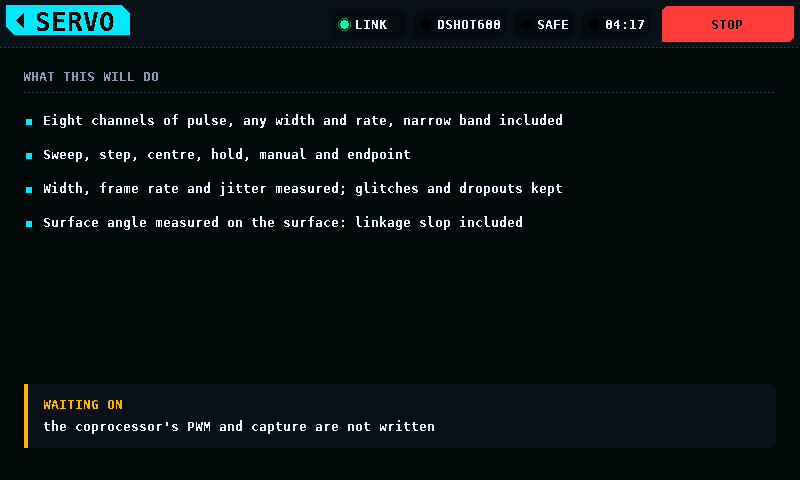
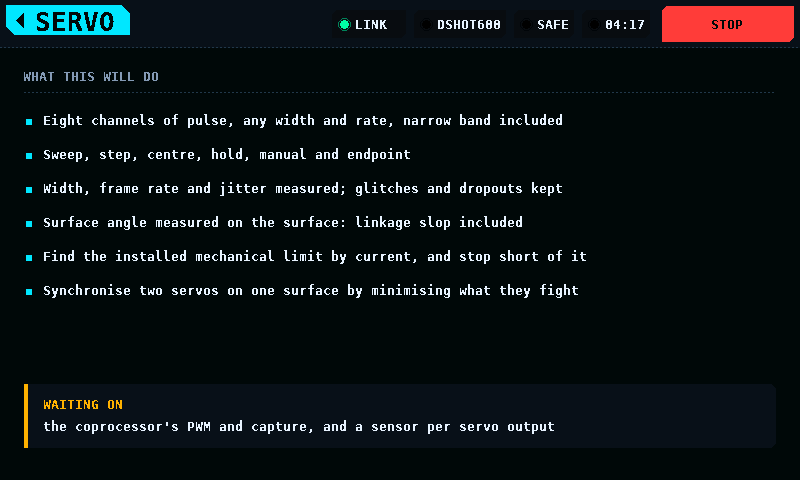
feat(servo): limit testing and synchronising two servos, both from current
Two features that come from the same measurement and are both about the servo
*as installed* rather than the servo as sold.  Neither is in the catalogue's
small set: both want a current sensor per output, which it costs as medium.

FINDING THE LIMIT.  Endpoints set by eye in a transmitter are guesses, and a
servo held against a mechanical stop draws stall current for as long as it is
asked to -- it cooks itself, empties the pack and wears the gears, and nobody
finds out until something strips.  The stop has a signature: current against
commanded position is flat and low while the surface is free and climbs
steeply the moment it binds.  Walk up to the knee slowly, stop at the first
rise rather than pushing through it, back off by a margin, and programme that
as the endpoint.

It has to be measured in place.  The limit belongs to the linkage, the horn
position and the surface stops, not to the servo, so it is different in every
installation and cannot be looked up -- which is exactly why a bench that can
measure it is worth having.

This one deliberately drives toward a stop, so it is the clearest case for the
coprocessor's rule of protecting hardware without asking: current limit, stall
timeout, slow approach.

SYNCHRONISING TWO.  Two servos on one surface -- dual ailerons, elevator
halves -- fight each other through the surface whenever their travel or centre
disagree, and both draw extra current continuously to do it.  So the objective
[…]

diff --git a/shared/ui/stub_screen.c b/shared/ui/stub_screen.c
@@ -13,7 +13,7 @@
 
 typedef struct {
     const char *title;
-    const char *what[4];   /**< what it will do; NULL-terminated          */
+    const char *what[6];   /**< what it will do; NULL-terminated          */
     const char *blocker;   /**< NULL when nothing is blocking it          */
 } copy_t;
 
@@ -49,14 +49,56 @@ static const copy_t k_copy[SCREEN_COUNT] = {
      * vertical hinge line -- reads exactly zero across its whole throw.  Lay
      * the model on its side and it reads like anything else.  Ailerons and
      * elevators on a level model are fine as they are.
+     *
+     * ------------------------------------------------------- the last two
+     *
+     * Both come from current, and both are about the servo *as installed*
+     * rather than the servo as sold.
+     *
+     * FINDING THE LIMIT.  Endpoints set by eye in a transmitter are guesses,
+     * and a servo held against a mechanical stop draws stall current for as
+     * long as it is asked to: it cooks itself, empties the pack and wears the
+     * gears, and nobody finds out until something strips.  The stop has a
+     * signature -- current against commanded position is flat and low while
+     * the surface is free, and climbs steeply the moment it binds.  Walk up
+     * to the knee slowly, stop at the first rise rather than pushing through
+     * it, back off by a margin, and programme *that* as the endpoint.
+     *
+     * It has to be measured in place: the limit belongs to the linkage, the
+     * horn position and the surface stops, not to the servo, so it is
+     * different in every installation and cannot be looked up.
+     *
+     * This one deliberately drives toward a stop, so it is the clearest case
+     * for the coprocessor's rule of protecting hardware without asking:
+     * current limit, stall timeout, and a slow approach.
+     *
+     * SYNCHRONISING TWO.  Two servos on one surface -- dual ailerons, elevator
+     * halves -- fight each other through the surface whenever their travel or
+     * centre disagree, and both draw extra current continuously to do it.  So
+     * the objective is not a position at all: **the minimum of total current
+     * is the point where they stop fighting**, which is a one-dimensional
+     * search with a physical answer rather than a judgement.
+     *
+     * And the two errors separate cleanly, which saves searching blindly:
+     * fighting at centre is an offset error, fighting at the extremes is a
+     * travel error.  Measure at the centre and at both ends and each
+     * correction falls out of its own measurement.
+     *
+     * The accelerometer adds the one thing current cannot say -- whether they
+     * agree and are *both* wrong, or disagree.
+     *
+     * Both want a current sensor per output, which the catalogue costs as
+     * medium: one sensor per channel, or a multiplexer.
      */
     [SCREEN_SERVO] = {
         "SERVO",
         { "Eight channels of pulse, any width and rate, narrow band included",
           "Sweep, step, centre, hold, manual and endpoint",
           "Width, frame rate and jitter measured; glitches and dropouts kept",
-          "Surface angle measured on the surface: linkage slop included" },
-        "the coprocessor's PWM and capture are not written",
+          "Surface angle measured on the surface: linkage slop included",
+          "Find the installed mechanical limit by current, and stop short of it",
+          "Synchronise two servos on one surface by minimising what they fight" },
+        "the coprocessor's PWM and capture, and a sensor per servo output",
     },
     [SCREEN_ANALYSER] = {
         "ANALYSER",
@@ -170,7 +212,7 @@ static void render(gfx_canvas_t *c, int buffer_index)
     ui_rule(c, 24, 44, W - 48, ui_theme_color(UI_C_EDGE));
 
     int y = 64;
-    for (int i = 0; i < 4 && k->what[i] != NULL; ++i) {
+    for (int i = 0; i < 6 && k->what[i] != NULL; ++i) {
         gfx_fill_rect(c, 26, y + 7, 6, 6, ui_theme_color(UI_C_ACCENT));
         gfx_text(c, COPY_X, y, k->what[i], &gfx_font_8x16,
                  ui_theme_color(UI_C_TEXT), 1);
